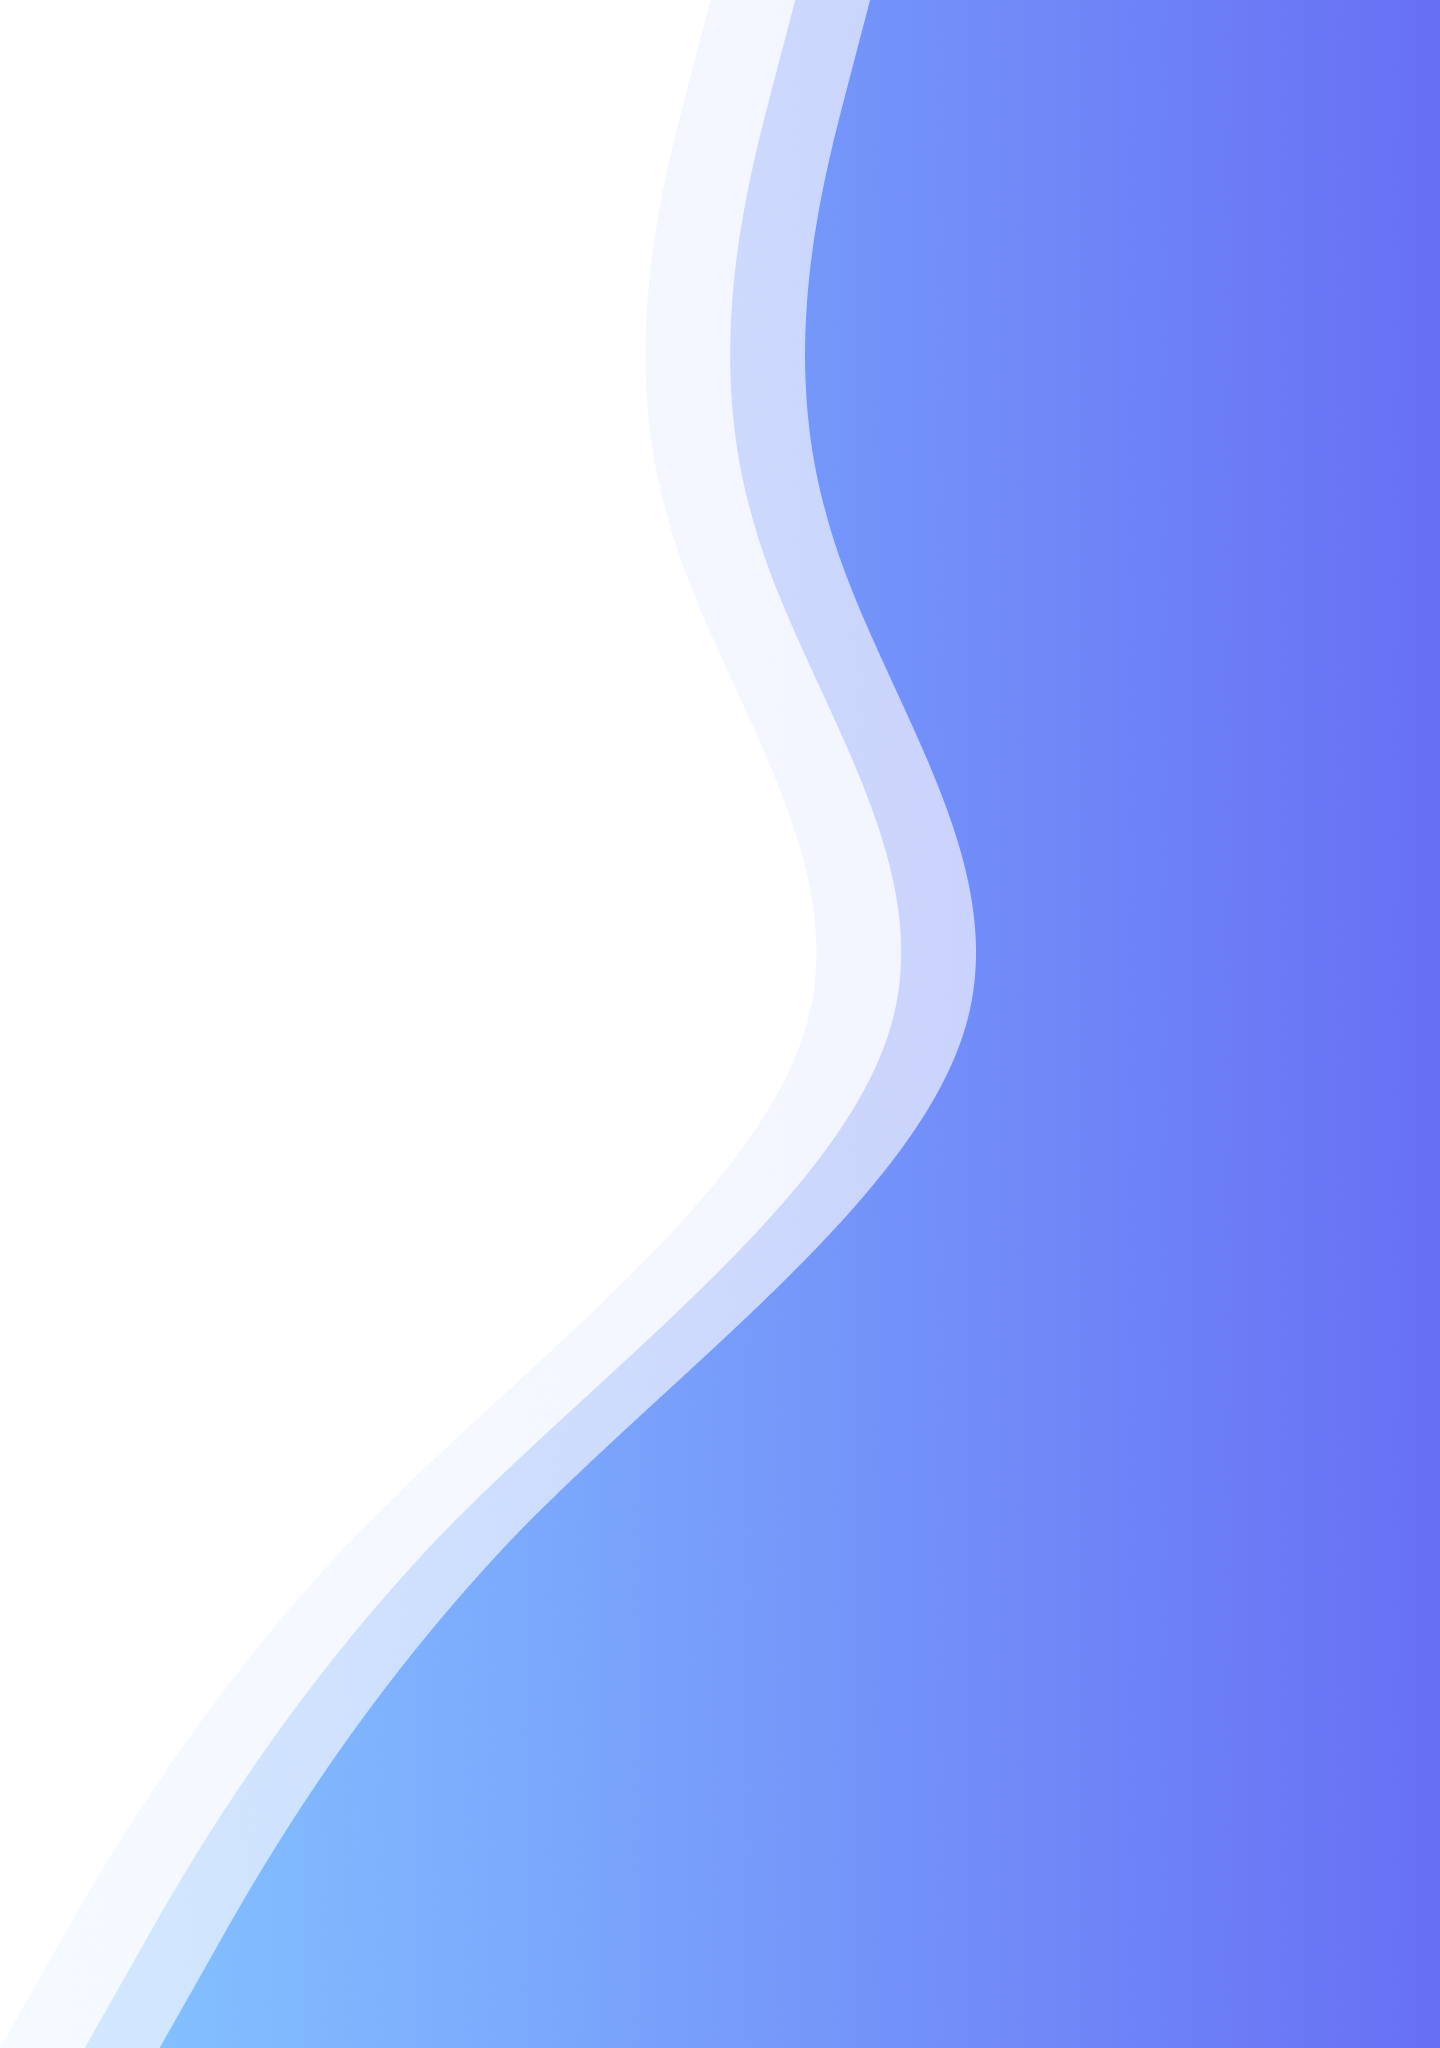
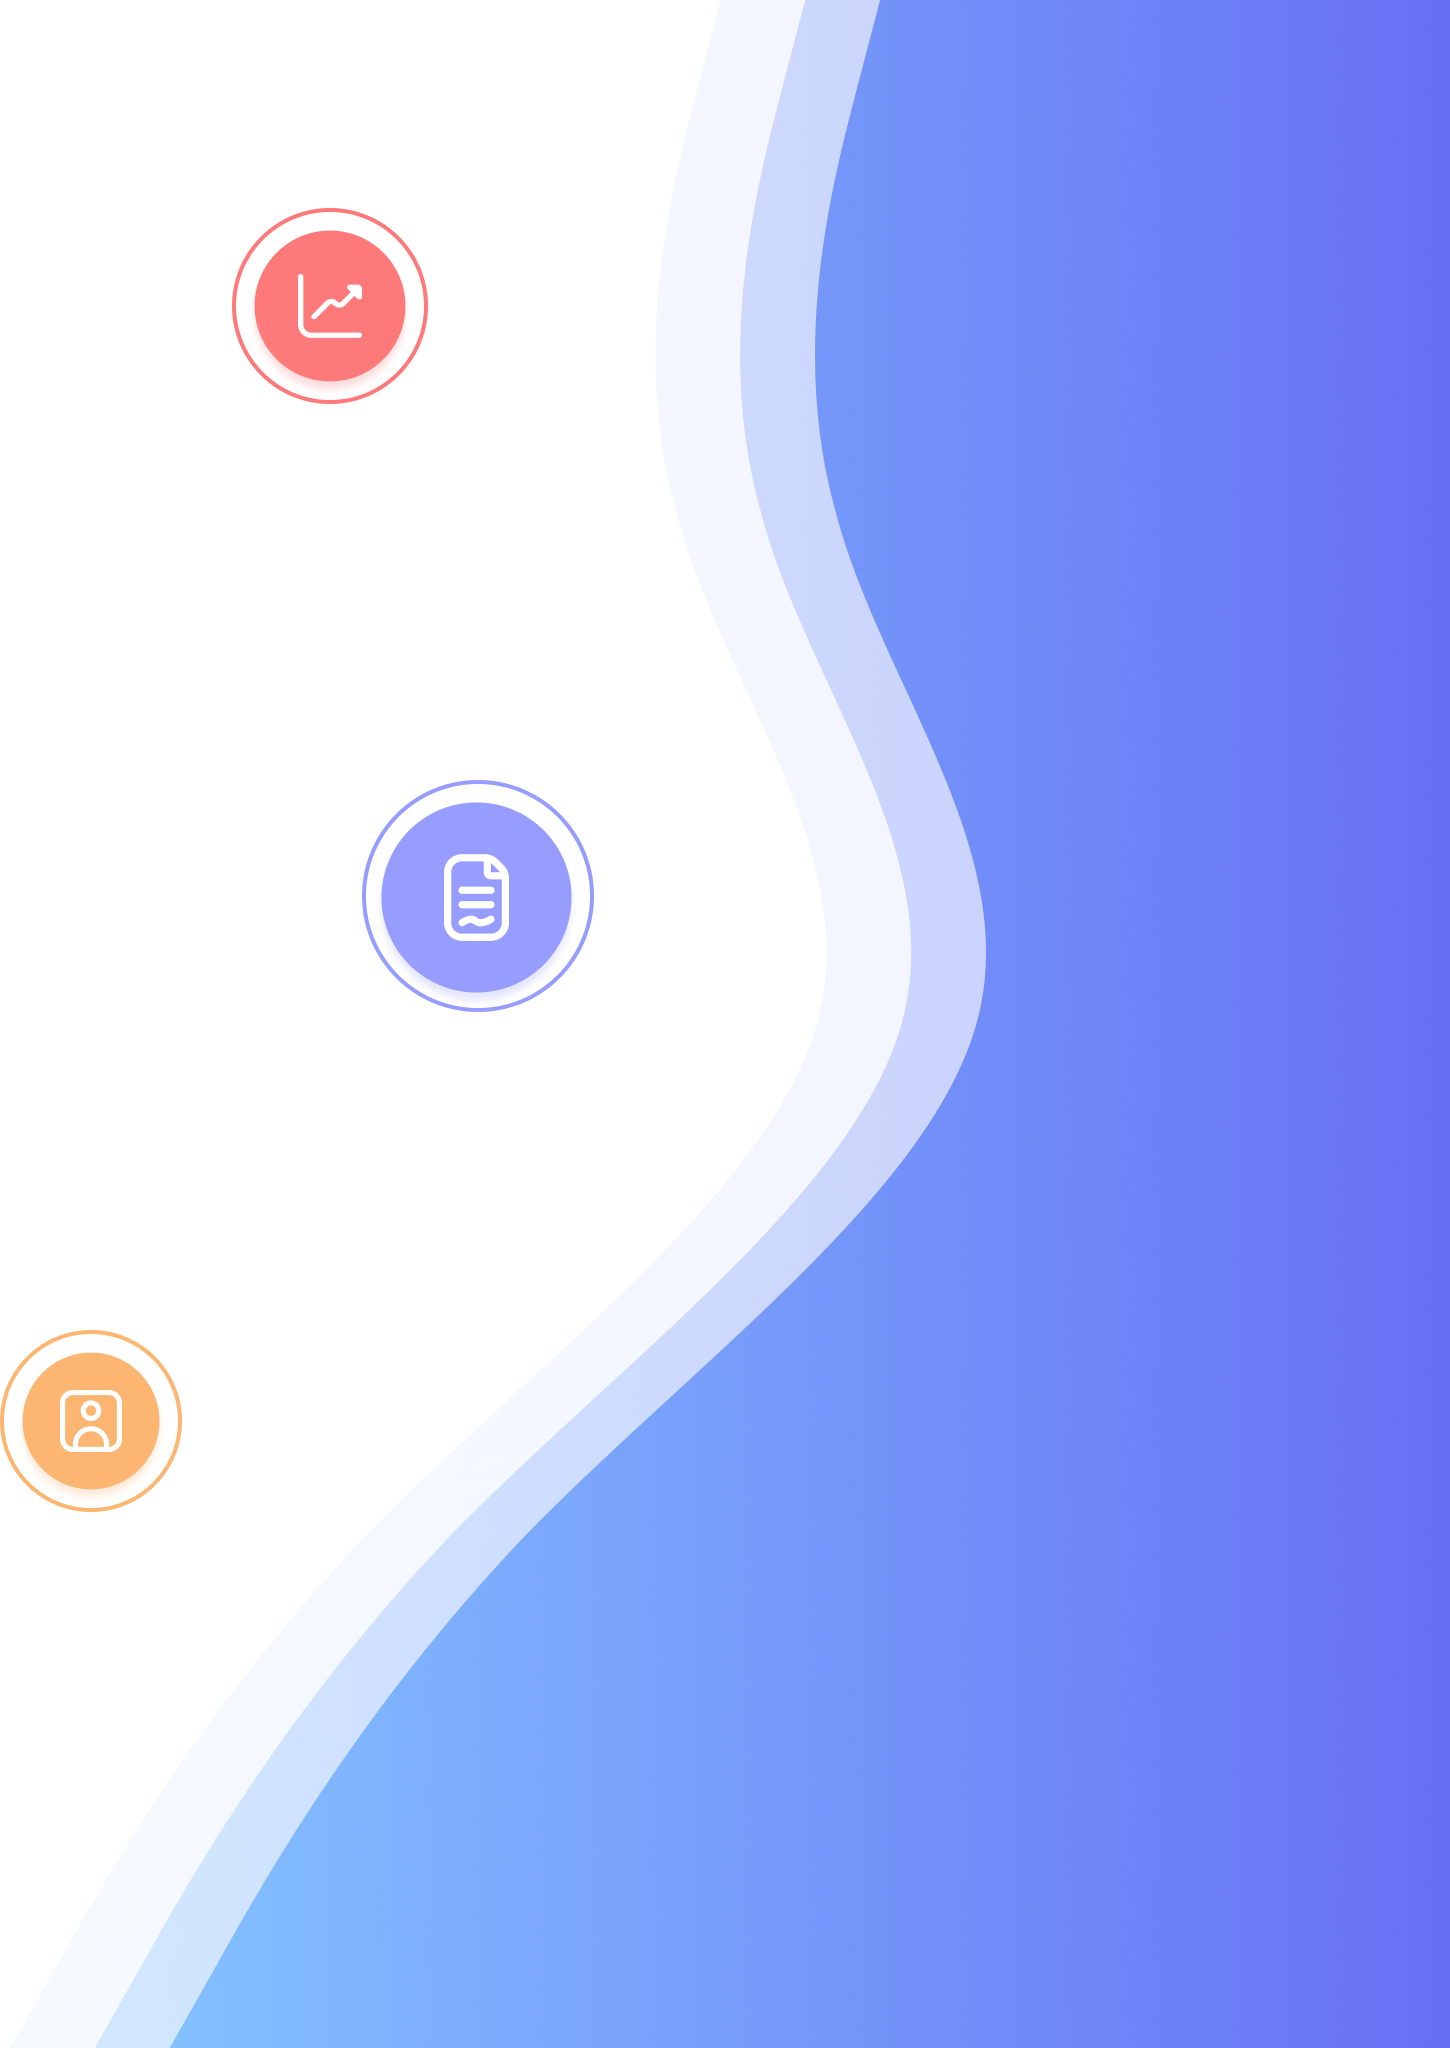
Login screen ui

diff --git a/styles/main.css b/styles/main.css
@@ -247,12 +247,17 @@ input[type=button] {
   border: none;
   font-family: "Poppins", sans-serif;
   border-radius: 40px;
-  padding: 0.5rem 1rem;
+  padding: 1rem 1.3rem;
   outline: none;
 }
 
 .main-button--primary p {
   font-size: 2rem;
+}
+
+.signinup-form__title {
+  font-family: "Poppins", sans-serif;
+  font-size: 3rem;
 }
 
 .text-input__label {
@@ -269,6 +274,7 @@ input[type=button] {
   border-radius: 14px;
   padding: 0.5rem 1rem;
   outline: none;
+  width: 100%;
 }
 
 .link {
@@ -285,7 +291,6 @@ input[type=button] {
       -ms-flex-direction: column;
           flex-direction: column;
   width: 100%;
-  max-width: 46rem;
 }
 
 .text-input__label {
@@ -372,8 +377,130 @@ input[type=button] {
   color: #A0A0A0;
 }
 
-html, body, main {
+.link--dark {
+  color: #363636;
+}
+
+.signinup-form {
   width: 100%;
+  max-width: 38rem;
+  display: -webkit-box;
+  display: -ms-flexbox;
+  display: flex;
+  -webkit-box-orient: vertical;
+  -webkit-box-direction: normal;
+      -ms-flex-direction: column;
+          flex-direction: column;
+  gap: 2rem;
+}
+
+.signinup-form__section {
+  display: -webkit-box;
+  display: -ms-flexbox;
+  display: flex;
+  -webkit-box-orient: vertical;
+  -webkit-box-direction: normal;
+      -ms-flex-direction: column;
+          flex-direction: column;
+}
+
+.signinup-form__section--row {
+  -webkit-box-orient: horizontal;
+  -webkit-box-direction: normal;
+      -ms-flex-direction: row;
+          flex-direction: row;
+  -webkit-box-align: center;
+      -ms-flex-align: center;
+          align-items: center;
+  -webkit-box-pack: justify;
+      -ms-flex-pack: justify;
+          justify-content: space-between;
+}
+
+.signinup-form__title {
+  color: #363636;
+}
+
+.signinup-form__notaccount {
+  -ms-flex-item-align: center;
+      -ms-grid-row-align: center;
+      align-self: center;
+}
+
+.signinup-screen {
+  width: 100%;
+  height: 100%;
+  display: -webkit-box;
+  display: -ms-flexbox;
+  display: flex;
+  -webkit-box-orient: horizontal;
+  -webkit-box-direction: normal;
+      -ms-flex-direction: row;
+          flex-direction: row;
+}
+
+.signinup-screen__article {
+  width: 100%;
+  display: -webkit-box;
+  display: -ms-flexbox;
+  display: flex;
+  -webkit-box-orient: vertical;
+  -webkit-box-direction: normal;
+      -ms-flex-direction: column;
+          flex-direction: column;
+  -webkit-box-align: center;
+      -ms-flex-align: center;
+          align-items: center;
+  -ms-flex-pack: distribute;
+      justify-content: space-around;
+}
+
+.signinup-screen__logo {
+  width: 100%;
+  max-width: 38rem;
+  -ms-flex-item-align: center;
+      -ms-grid-row-align: center;
+      align-self: center;
+}
+
+.signinup-screen__section {
+  width: 100%;
+  display: -webkit-box;
+  display: -ms-flexbox;
+  display: flex;
+  -webkit-box-orient: vertical;
+  -webkit-box-direction: normal;
+      -ms-flex-direction: column;
+          flex-direction: column;
+  -ms-flex-pack: distribute;
+      justify-content: space-around;
+}
+
+.signinup-screen__dots {
+  width: 100%;
+}
+
+.signinup-screen__wave {
+  width: 100%;
+  height: 100%;
+  display: -webkit-box;
+  display: -ms-flexbox;
+  display: flex;
+  -webkit-box-pack: end;
+      -ms-flex-pack: end;
+          justify-content: flex-end;
+}
+
+.signinup-screen__wave img {
+  max-width: none;
+  height: 100%;
+}
+
+html,
+body,
+main {
+  width: 100%;
+  height: 100%;
 }
 
 html {

diff --git a/login.html b/login.html
@@ -11,11 +11,18 @@
 
 <body>
     <main class="signinup-screen">
-        <article class="signinup-screen__section">
+        <article class="signinup-screen__article">
             <section class="signinup-screen__section">
-                <img src="images/Nombreapp.svg" alt="">
+                <section class="signinup-screen__logo">
+                    <img src="./images/Nombreapp.svg" alt="">
+                </section>
             </section>
             <form class="signinup-form signInForm">
+                <section class="signinup-form__section">
+                    <h2 class="signinup-form__title">
+                        Iniciar sesión
+                    </h2>
+                </section>
                 <section class="signinup-form__section">
                     <div class="text-input">
                         <label class="text-input__label" for="email">Correo</label>
@@ -37,12 +44,23 @@
                     </label>
                     <a class="link" href="">¿Olvidó su contraseña?</a>
                 </section>
-                <section class="login__section">
+                <section class="signinup-form__section">
                     <button class="main-button main-button--primary">
                         <p>Iniciar sesión</p>
                     </button>
                 </section>
+                <section class="signinup-form__notaccount">
+                    <p class="link">¿No tienes una cuenta? <a class="link link--dark" href="">Crea tu cuenta</a></p>
+                </section>
             </form>
+            <section class="signinup-screen__dots">
+                <img src="./images/dots.svg" alt="">
+            </section>
+        </article>
+        <article class="signinup-screen__article">
+            <section class="signinup-screen__wave">
+                <img src="./images/wavelogin.png" alt="">
+            </section>
         </article>
     </main>
 </body>

diff --git a/styles/pages/_signinup-screen.scss b/styles/pages/_signinup-screen.scss
@@ -1,0 +1,43 @@
+.signinup-screen {
+    width: 100%;
+    height: 100%;
+    display: flex;
+    flex-direction: row;
+
+    &__article {
+        width: 100%;
+        display: flex;
+        flex-direction: column;
+        align-items: center;
+        justify-content: space-around;
+    }
+
+    &__logo {
+        width: 100%;
+        max-width: 38rem;
+        align-self: center;
+    }
+
+    &__section {
+        width: 100%;
+        display: flex;
+        flex-direction: column;
+        justify-content: space-around;
+    }
+
+    &__dots {
+        width: 100%;
+    }
+
+    &__wave {
+        width: 100%;
+        height: 100%;
+        display: flex;
+        justify-content: flex-end;
+
+        img {
+            max-width: none;
+            height: 100%;
+        }
+    }
+}

diff --git a/styles/main.scss b/styles/main.scss
@@ -1,13 +1,22 @@
-@import 'vendor/reset';
-@import 'base/variables';
-@import 'base/placeholders';
-@import 'base/mixins';
-@import 'modules/inputs';
-@import 'modules/buttons';
-@import 'modules/links';
+@import "vendor/reset";
 
-html, body, main {
+@import "base/variables";
+@import "base/placeholders";
+@import "base/mixins";
+
+@import "modules/inputs";
+@import "modules/buttons";
+@import "modules/links";
+
+@import "layouts/signinup-form";
+
+@import "pages/signinup-screen";
+
+html,
+body,
+main {
     width: 100%;
+    height: 100%;
 }
 
 html {
@@ -17,4 +26,3 @@ html {
 .hidden {
     display: none;
 }
-

diff --git a/styles/layouts/_signinup-form.scss b/styles/layouts/_signinup-form.scss
@@ -1,0 +1,26 @@
+.signinup-form {
+    width: 100%;
+    max-width: 38rem;
+    display: flex;
+    flex-direction: column;
+    gap: 2rem;
+
+    &__section {
+        display: flex;
+        flex-direction: column;
+        
+        &--row {
+            flex-direction: row;
+            align-items: center;
+            justify-content: space-between;
+        }
+    }
+
+    &__title {
+        @include title($mineshaft)
+    }
+
+    &__notaccount {
+        align-self: center;
+    }
+}

diff --git a/styles/base/_variables.scss b/styles/base/_variables.scss
@@ -31,6 +31,7 @@ $input-label-color: $mineshaft;
 
 // // Link colors
 $link-primary: $silver;
+$link-dark: $mineshaft;
 
 // RADIUS
 $radius-button: 40px;
@@ -38,4 +39,4 @@ $radius-text-input: 14px;
 
 // PADDING
 $input-padding: 0.5rem 1rem;
-$button-padding: 0.5rem 1rem;
+$button-padding: 1rem 1.3rem;

diff --git a/styles/modules/_inputs.scss b/styles/modules/_inputs.scss
@@ -2,7 +2,6 @@
     display: flex;
     flex-direction: column;
     width: 100%;
-    max-width: 46rem;
 
     &__label {
         margin-bottom: 0.5rem;

diff --git a/styles/base/_placeholders.scss b/styles/base/_placeholders.scss
@@ -30,6 +30,7 @@
     border-radius: $radius-text-input;
     padding: $input-padding;
     outline: none;
+    width: 100%;
 }
 
 %link {

diff --git a/styles/modules/_links.scss b/styles/modules/_links.scss
@@ -1,3 +1,6 @@
 .link {
     @include link($link-primary);
+    &--dark {
+        color: $link-dark;
+    }
 }
